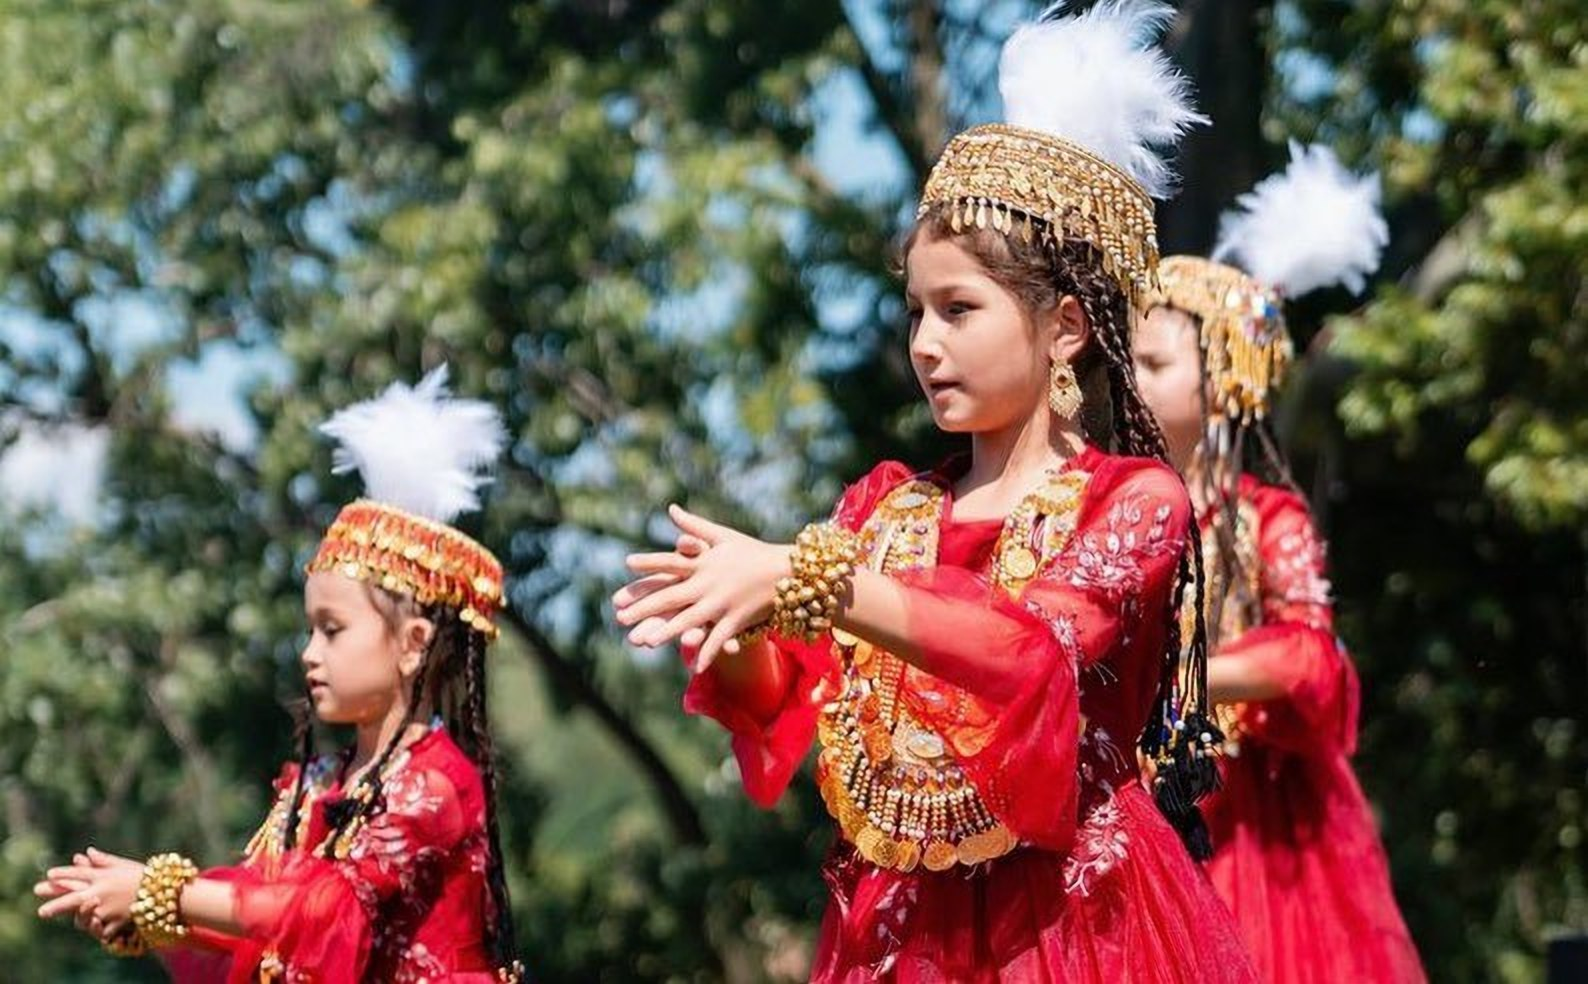
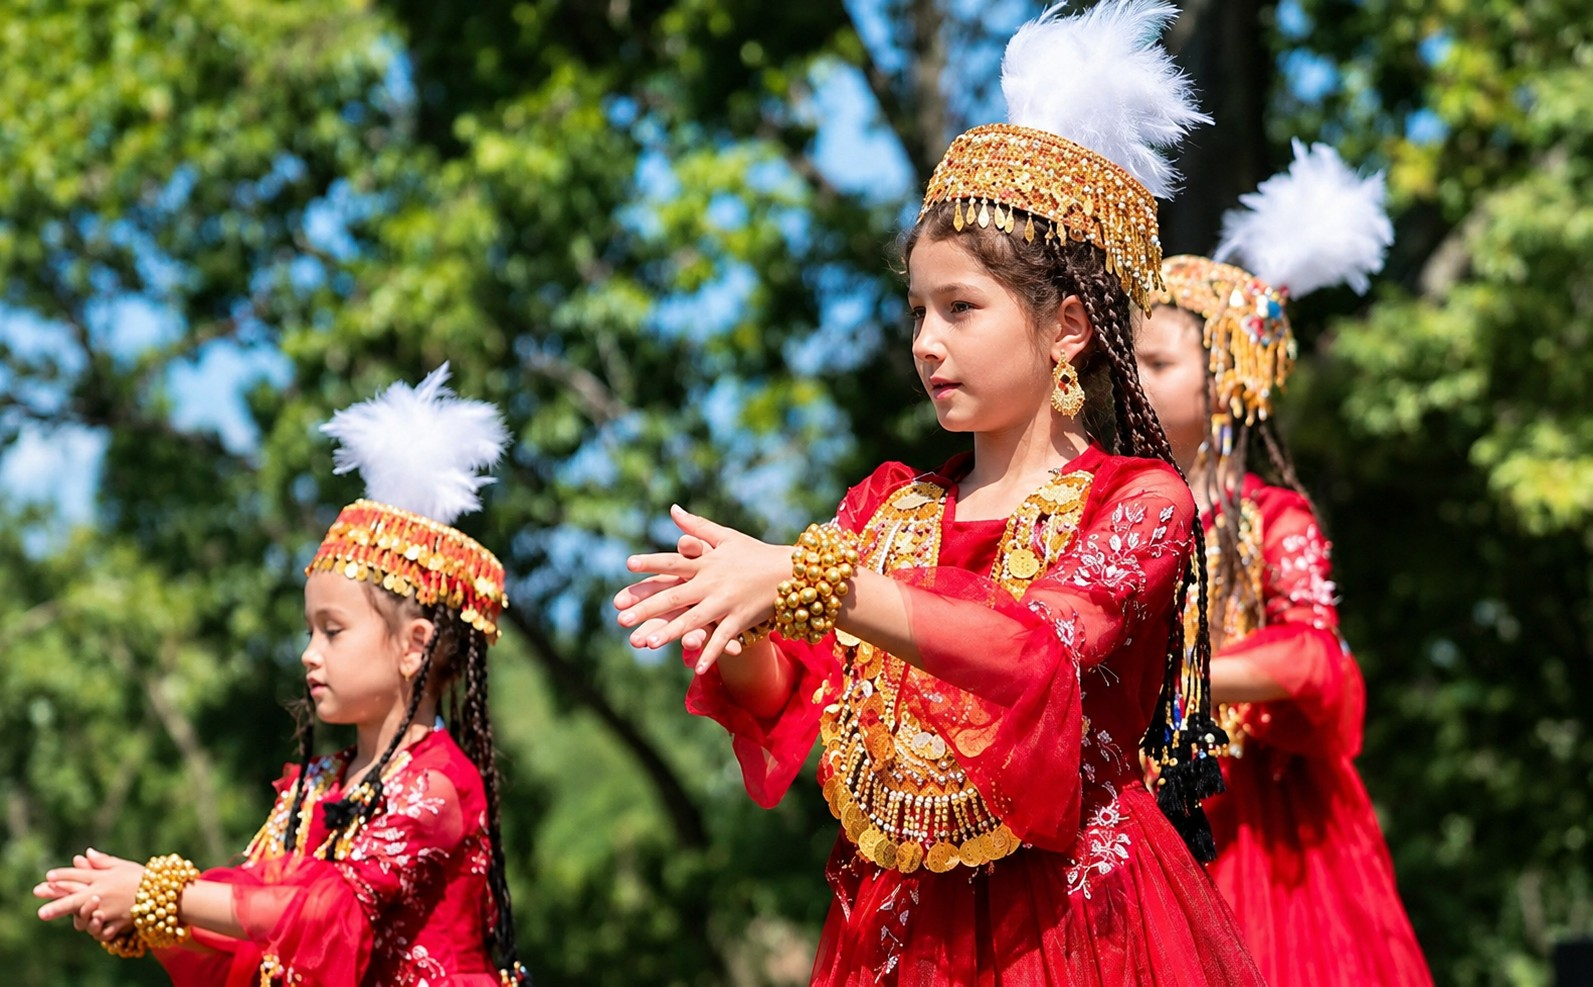
Sharper hero photo
Claude-Session: https://claude.ai/code/session_01XRnVtYonvUHJpZYzFb4Zge

diff --git a/app/[lang]/page.tsx b/app/[lang]/page.tsx
@@ -64,7 +64,7 @@ export default async function Home({ params }: { params: Promise<{ lang: string 
           fill
           priority
           sizes="100vw"
-          className="hero-img -z-20 object-cover object-[70%_30%]"
+          className="hero-img -z-20 object-cover object-[72%_25%]"
         />
         <div aria-hidden="true" className="absolute inset-0 -z-10 bg-[linear-gradient(0deg,rgba(23,19,15,.97)_0%,rgba(23,19,15,.88)_55%,rgba(23,19,15,.55)_100%)] lg:bg-[linear-gradient(90deg,rgba(23,19,15,.97)_0%,rgba(23,19,15,.88)_38%,rgba(23,19,15,.1)_72%)]" />
         <Container className="flex min-h-[640px] flex-col justify-end gap-8 pb-12 pt-40 sm:min-h-[720px] lg:justify-center lg:pt-16">
